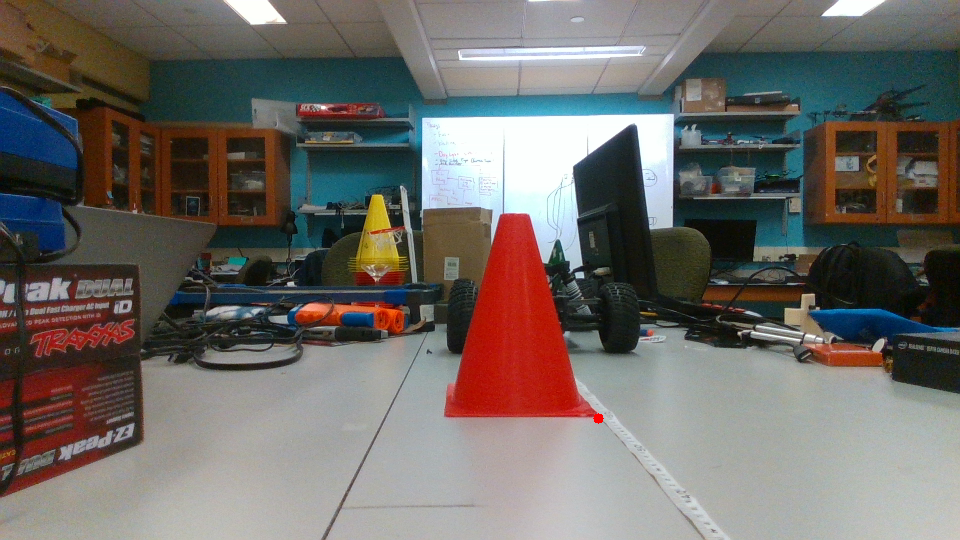
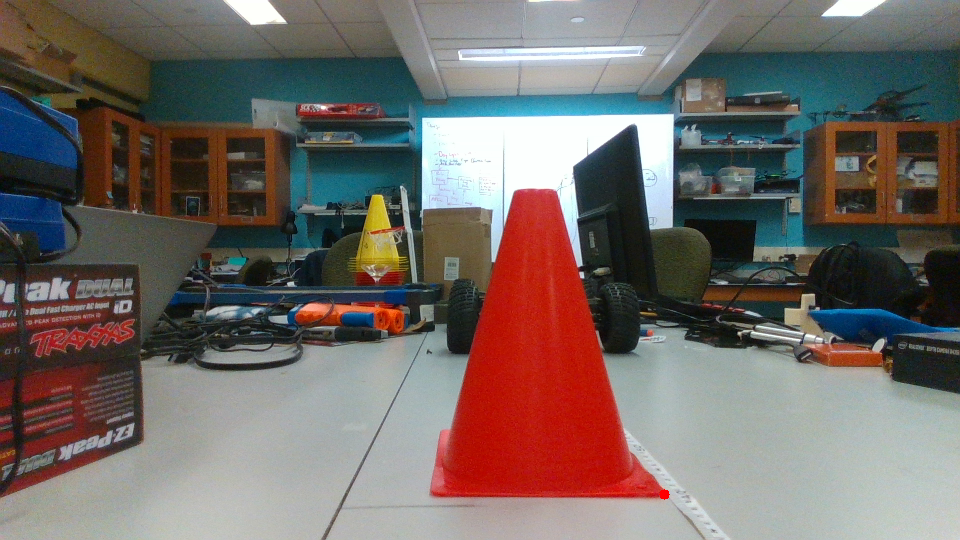
trying task 2

diff --git a/scripts/height.py b/scripts/height.py
@@ -1,0 +1,112 @@
+#!/usr/bin/env python3
+
+import rclpy
+from rclpy.node import Node
+from cv_bridge import CvBridge
+import cv2
+import numpy as np
+import glob
+
+
+class CameraCalibrationNode(Node):
+    def __init__(self):
+        super().__init__('camera_calibration_node')
+
+        self.path = '/root/sim_ws/src/'
+
+        self.bridge = CvBridge()
+
+        # Adjust checkerboard size if necessary
+        self.checkerboard_size = (6, 8)
+        self.square_width_cm = 25 / self.checkerboard_size[0]
+
+        self.object_points = np.zeros(
+            (np.prod(self.checkerboard_size), 3), dtype=np.float32)
+        self.object_points[:, :2] = np.indices(
+            self.checkerboard_size).T.reshape(-1, 2)
+        self.object_points *= self.square_width_cm
+
+        self.object_points_list = []
+        self.image_points_list = []
+
+        self.calibrate_camera()
+
+    def calibrate_camera(self):
+        # Path to your calibration images
+        images = glob.glob(self.path + 'lab8_pkg/calibration/*.png')
+
+        for fname in images:
+            cv_image = cv2.imread(fname)
+            gray = cv2.cvtColor(cv_image, cv2.COLOR_BGR2GRAY)
+
+            ret, corners = cv2.findChessboardCorners(
+                gray, self.checkerboard_size, None)
+
+            if ret:
+                self.object_points_list.append(self.object_points)
+                self.image_points_list.append(corners)
+
+        if len(self.object_points_list) >= 10:  # Calibrate after collecting sufficient data
+            ret, self.camera_matrix, self.distortion_coeffs, _, _ = cv2.calibrateCamera(
+                self.object_points_list, self.image_points_list, gray.shape[::-1], None, None
+            )
+
+            self.get_logger().info("Camera Matrix:\n{}".format(self.camera_matrix))
+            self.get_logger().info("Distortion Coefficients:\n{}".format(self.distortion_coeffs))
+            self.get_logger().info("Camera calibration completed.")
+
+            # Call function to calculate camera mount height
+            self.calculate_camera_mount_height()
+
+
+    def calculate_camera_mount_height(self):
+        # Pixel coordinates of the point in the image
+        pixel_coordinates = np.array([[665, 499]])  # Reshaped to (1, 2) array
+        # Distance from the camera to the object in cm
+        distance_to_object = 40
+
+        # Assuming camera matrix and distortion coefficients are available
+        fx = self.camera_matrix[0, 0]
+        fy = self.camera_matrix[1, 1]
+        cx = self.camera_matrix[0, 2]
+        cy = self.camera_matrix[1, 2]
+
+        # Assuming distortion coefficients are available as a single array
+        distortion_coeffs = self.distortion_coeffs
+
+        # Undistort the pixel coordinates
+        undistorted_pixel_coordinates = cv2.undistortPoints(pixel_coordinates.reshape(1, 1, 2),
+                                                            self.camera_matrix, distortion_coeffs)
+
+        # Convert pixel coordinates to normalized image coordinates
+        normalized_image_coordinates = (
+            undistorted_pixel_coordinates.squeeze() - np.array([cx, cy])) / np.array([fx, fy])
+
+        # Convert normalized image coordinates to homogeneous coordinates
+        homogeneous_coordinates = np.append(normalized_image_coordinates, 1)
+
+        # Use inverse camera matrix to convert to camera frame
+        inverse_camera_matrix = np.linalg.inv(self.camera_matrix)
+        point_in_camera_frame = np.dot(
+            inverse_camera_matrix, homogeneous_coordinates)
+
+        # Scale the point based on the known distance to object
+        point_in_camera_frame *= distance_to_object
+
+        # Assuming camera is at the origin, the height of the camera mount is the z-coordinate
+        height_of_camera_mount = point_in_camera_frame[2]
+
+        self.get_logger().info(
+            "Height of the camera mount: {:.2f} cm".format(height_of_camera_mount))
+
+
+def main(args=None):
+    rclpy.init(args=args)
+    node = CameraCalibrationNode()
+    rclpy.spin(node)
+    node.destroy_node()
+    rclpy.shutdown()
+
+
+if __name__ == '__main__':
+    main()

diff --git a/scripts/distance1.py b/scripts/distance1.py
@@ -1,0 +1,105 @@
+#!/usr/bin/env python3
+import rclpy
+from rclpy.node import Node
+import cv2
+import numpy as np
+import glob
+
+class DistanceNode(Node):
+    def __init__(self):
+        super().__init__('distance_node')
+        self.path = '/root/sim_ws/src/'
+        # load camera calibration matrix
+        self.calibration_matrix, self.dist_coeffs = self.calibrate_camera(self.path+'lab8_pkg/calibration', (6, 8), 25)
+        print("Calibration matrix:\n", self.calibration_matrix)
+        print("Distortion coefficients:\n", self.dist_coeffs)
+
+
+    def calibrate_camera(self, calibration_folder, chessboard_size, square_size):
+        # prepare object points
+        objp = np.zeros((chessboard_size[0] * chessboard_size[1], 3), np.float32)
+        objp[:, :2] = np.mgrid[0:chessboard_size[0], 0:chessboard_size[1]].T.reshape(-1, 2) * square_size
+
+        # arrays to store object points and image points from all the images
+        objpoints = []  # 3D points in real world space
+        imgpoints = []  # 2D points in image plane
+
+        # get the list of calibration images
+        calibration_images = glob.glob(calibration_folder + '/*.png')
+
+        # loop through calibration images
+        for image_path in calibration_images:
+            # read each image
+            img = cv2.imread(image_path)
+            gray = cv2.cvtColor(img, cv2.COLOR_BGR2GRAY)
+
+            # find chessboard corners
+            ret, corners = cv2.findChessboardCorners(gray, chessboard_size, None)
+
+            # add object points and image points (after refining them)
+            if ret:
+                objpoints.append(objp)
+                criteria = (cv2.TERM_CRITERIA_EPS + cv2.TERM_CRITERIA_MAX_ITER, 30, 0.001)
+                corners2 = cv2.cornerSubPix(gray, corners, (11, 11), (-1, -1), criteria)
+                imgpoints.append(corners2)
+
+                # draw and display the corners
+                img = cv2.drawChessboardCorners(img, chessboard_size, corners2, ret)
+                cv2.imwrite(self.path+'lab8_pkg/output_image.png', img)
+
+        # perform camera calibration
+        ret, mtx, dist, rvecs, tvecs = cv2.calibrateCamera(objpoints, imgpoints, gray.shape[::-1], None, None)
+        return mtx, dist
+
+
+    def calculate_distance_to_cone(self, cone_image):
+        # read the cone image
+        img = cv2.imread(cone_image)
+
+        # set lower right corner pixel points
+        # reference_point = [598, 418] # unknown
+        reference_point = [664, 494] # known
+
+        # Calculate distance in x_car and y_car coordinates
+        x_car = reference_point[0] * (self.mount_height / self.calibration_matrix[0, 0])
+        y_car = reference_point[1] * (self.mount_height / self.calibration_matrix[1, 1])
+
+        # Draw reference point for visualization
+        cv2.circle(img, tuple(reference_point), 5, (0, 0, 255), -1)
+
+        # Display visualizations
+        cv2.imwrite(
+            self.path+'lab8_pkg/cone_image.png', img)
+
+        return x_car, y_car
+
+
+    def main(self):
+        # Calibration parameters
+        chessboard_size = (6, 8)  # Chessboard size (inner corners)
+        square_size = 25  # Size of each square in mm
+        self.mount_height = 0  # Initialize mount height
+
+        # Calculate mount height
+        x_car_known = 40  # Known x_car distance of the cone in cm
+        self.mount_height = x_car_known * self.calibration_matrix[0, 0] / 100
+
+        # Calculate distance to cone
+        cone_image = self.path+'lab8_pkg/resource/cone_x40cm.png'
+        x_car, y_car = self.calculate_distance_to_cone(cone_image)
+
+        if x_car is not None and y_car is not None:
+            print("Distance to cone (x_car, y_car):", x_car, "cm,", y_car, "cm")
+        else:
+            print("Error: Distance calculation failed.")
+
+
+def main(args=None):
+    rclpy.init(args=args)
+    distance_node = DistanceNode()
+    distance_node.main()
+    rclpy.spin(distance_node)
+    rclpy.shutdown()
+
+if __name__ == '__main__':
+    main()

diff --git a/scripts/calibration.py b/scripts/calibration.py
@@ -1,0 +1,68 @@
+#!/usr/bin/env python3
+
+import rclpy
+from rclpy.node import Node
+from cv_bridge import CvBridge
+import cv2
+import numpy as np
+import glob
+
+
+class CameraCalibrationNode(Node):
+    def __init__(self):
+        super().__init__('camera_calibration_node')
+
+        self.path = '/root/sim_ws/src/'
+
+        self.bridge = CvBridge()
+
+        # Adjust checkerboard size if necessary
+        self.checkerboard_size = (6, 8)
+        self.square_width_cm = 25 / self.checkerboard_size[0]
+
+        self.object_points = np.zeros(
+            (np.prod(self.checkerboard_size), 3), dtype=np.float32)
+        self.object_points[:, :2] = np.indices(
+            self.checkerboard_size).T.reshape(-1, 2)
+        self.object_points *= self.square_width_cm
+
+        self.object_points_list = []
+        self.image_points_list = []
+
+        self.calibrate_camera()
+
+    def calibrate_camera(self):
+        # Path to your calibration images
+        images = glob.glob(self.path + 'lab8_pkg/calibration/*.png')
+
+        for fname in images:
+            cv_image = cv2.imread(fname)
+            gray = cv2.cvtColor(cv_image, cv2.COLOR_BGR2GRAY)
+
+            ret, corners = cv2.findChessboardCorners(
+                gray, self.checkerboard_size, None)
+
+            if ret:
+                self.object_points_list.append(self.object_points)
+                self.image_points_list.append(corners)
+
+        if len(self.object_points_list) >= 10:  # Calibrate after collecting sufficient data
+            ret, camera_matrix, distortion_coeffs, _, _ = cv2.calibrateCamera(
+                self.object_points_list, self.image_points_list, gray.shape[::-1], None, None
+            )
+
+            self.get_logger().info("Camera Matrix:\n{}".format(camera_matrix))
+            self.get_logger().info("Distortion Coefficients:\n{}".format(distortion_coeffs))
+            self.get_logger().info("Camera calibration completed.")
+
+
+def main(args=None):
+    rclpy.init(args=args)
+    node = CameraCalibrationNode()
+    rclpy.spin(node)
+    node.destroy_node()
+    rclpy.shutdown()
+
+
+if __name__ == '__main__':
+    main()

diff --git a/scripts/huh.py b/scripts/huh.py
@@ -1,0 +1,47 @@
+import numpy as np
+import cv2
+
+# Known parameters
+# Correct shape and data type
+pixel_coordinates = np.array([[665, 499]], dtype=np.float64)
+distance_to_object = 40  # Distance from the camera to the object in cm
+
+fx = 693.677
+fy = 694.76
+cx = 448
+cy = 250
+k1 = 0.17038642
+k2 = -0.06207556
+p1 = -0.00967646
+p2 = -0.01192096
+k3 = -1.02088799
+
+# Camera calibration parameters
+camera_matrix = np.array([[fx, 0, cx],
+                          [0, fy, cy],
+                          [0, 0, 1]], dtype=np.float64)
+distortion_coeffs = np.array([k1, k2, p1, p2, k3], dtype=np.float64)
+
+# Undistort the pixel coordinates
+undistorted_pixel_coordinates = cv2.undistortPoints(
+    pixel_coordinates, camera_matrix, distortion_coeffs)
+
+# Convert pixel coordinates to normalized image coordinates
+normalized_image_coordinates = (
+    undistorted_pixel_coordinates - np.array([[cx, cy]])) / np.array([[fx, fy]])
+
+# Convert normalized image coordinates to homogeneous coordinates
+homogeneous_coordinates = np.hstack(
+    (normalized_image_coordinates, np.ones((1, 1), dtype=np.float64))).T
+
+# Use inverse camera matrix to convert to camera frame
+inverse_camera_matrix = np.linalg.inv(camera_matrix)
+point_in_camera_frame = np.dot(inverse_camera_matrix, homogeneous_coordinates)
+
+# Scale the point based on the known distance to object
+point_in_camera_frame *= distance_to_object
+
+# Assuming camera is at the origin, the height of the camera mount is the z-coordinate
+height_of_camera_mount = point_in_camera_frame[2]
+
+print("Height of the camera mount:", height_of_camera_mount)
